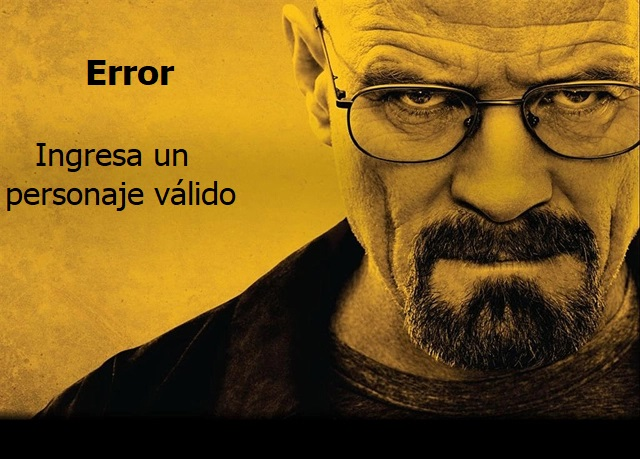
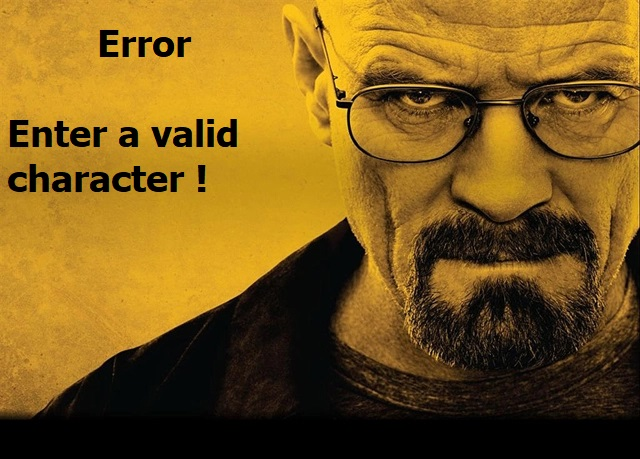
Inglés

Changed region(s): [[0.0, 0.244, 0.375, 0.4575], [0.125, 0.061, 0.3125, 0.183]]

diff --git a/src/index.html b/src/index.html
@@ -16,42 +16,42 @@
     <nav>
       <div>
 
-      <button id="btnOrdenarAZ">Ordenar A-Z</button>
-      <button id="btnOrdenarZA">Ordenar Z-A</button>
+      <button id="btnOrdenarAZ">Sort A-Z</button>
+      <button id="btnOrdenarZA">Sort Z-A</button>
 
-        <label class="selector" for="selectorTemporada">Selecciona temporada</label>   
+        <label class="selector" for="selectorTemporada">Select your season</label>   
         <select id="selectorTemporada">
-             <option value="1" id="temp1">Temporada 1</option>
-             <option value="2" id="temp2">Temporada 2</option>
-             <option value="3" id="temp3">Temporada 3</option>
-             <option value="4" id="temp4">Temporada 4</option>
-             <option value="4" id="temp5">Temporada 5</option>
+             <option value="1" id="temp1">Season 1</option>
+             <option value="2" id="temp2">Season 2</option>
+             <option value="3" id="temp3">Season 3</option>
+             <option value="4" id="temp4">Season 4</option>
+             <option value="4" id="temp5">Season 5</option>
              <!--<option value="6" id="todasTemp">Todas las temporadas</option>-->
            </select>
            
-      <input type="text" class="Personaje" placeholder="Buscador Personaje / Actor / Actriz" id="busquedaPersonaje">  
-      <button class="btnBuscar" id="buscar">Buscar</button>
-      <button id="Calculo">¿Cuál personaje serías?</button>
+      <input type="text" class="Personaje" placeholder="Search character/actor/actress" id="busquedaPersonaje">  
+      <button class="btnBuscar" id="buscar">Search</button>
+      <button id="Calculo">Which character are you?</button>
 
       <audio id= "cancionBreakingBad" controls loop>
         <source src="audio/Canción.mp3" type="audio/mpeg">
       </audio>
       
       <div id="calculoContainer" class="calculoContainer">
-        <h2><b><em>¿Cuál personaje serías?</em></b></h2>
+        <h2><b><em>Which character are you?</em></b></h2>
         <ul style="list-style: none;">
-        <li><label class= "nombre" for="nombre"><b>Introduce tu nombre</b></label></li>
+        <li><label class= "nombre" for="nombre"><b>Name</b></label></li>
         <input type="text" class="NombreCalculo" placeholder="" id="Nombre">
         <br>
-        <li><label class= "signo" for="signo"><b>Signo zodiacal</b></label></li>
+        <li><label class= "signo" for="signo"><b>Zodiac sign</b></label></li>
         <input type="text" class="SignoCalculo" placeholder="" id="Signo">
         <br>
-        <li><label class= "elemento" for="elemento"><b>Introduce tu elemento químico favorito</b></label></li>
+        <li><label class= "elemento" for="elemento"><b>Favorite chemical element</b></label></li>
         <input type="text" class="ElementoCalculo" placeholder="" id="Elemento">
         <br>
-        <button class="btnProcesar" id="procesar">Procesar</button>
+        <button class="btnProcesar" id="procesar">Process</button>
         <div id="cartaContainer">
-        <h2><em>Carta seleccionada:</em></h2>
+        <h2><em>Selected card:</em></h2>
         <div id="cartaInfo">
             <!-- Aquí se mostrarán los detalles de la carta -->
         </div>

diff --git a/README.md b/README.md
@@ -52,8 +52,11 @@ Se definieron las historias de usuario
 ##### Historia de Usuario 5
 ![](/src/Image/Imagenes/HU5.jpg)
 
-#####Se creo el prototipo de baja fidelidad 
+##### Se creo el prototipo de baja fidelidad 
 ![](/src/Image/Imagenes/Prototipo_de_baja_fidelidad.png)
+
+#### Despúes se trabajo en el prototipo de alta fidelidad
+![](/src/Image/PrototipoAltaF.png)
 
 
 
